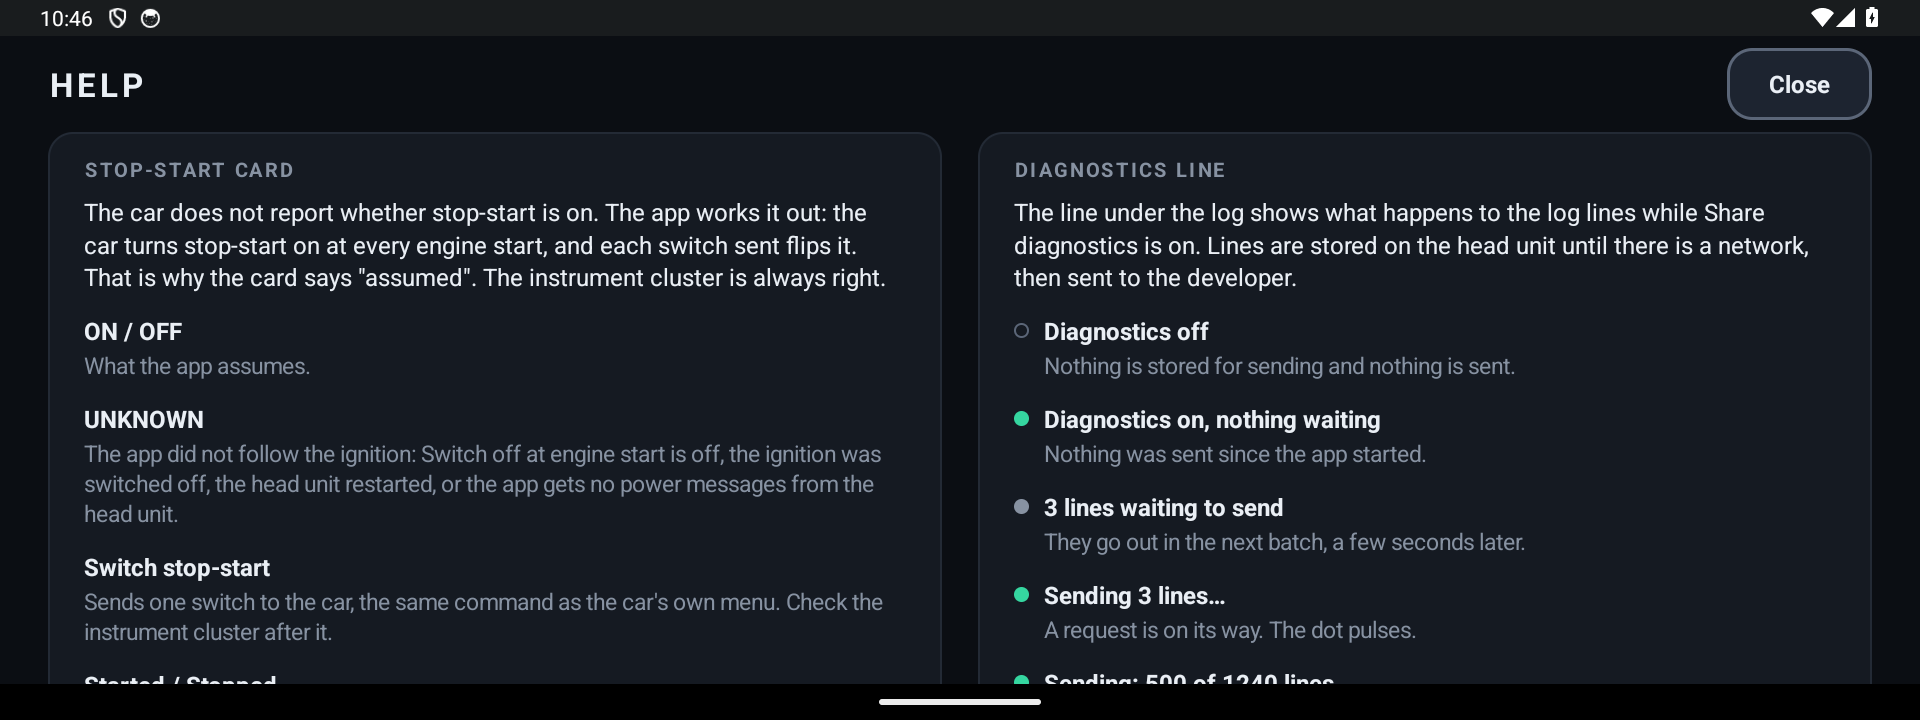
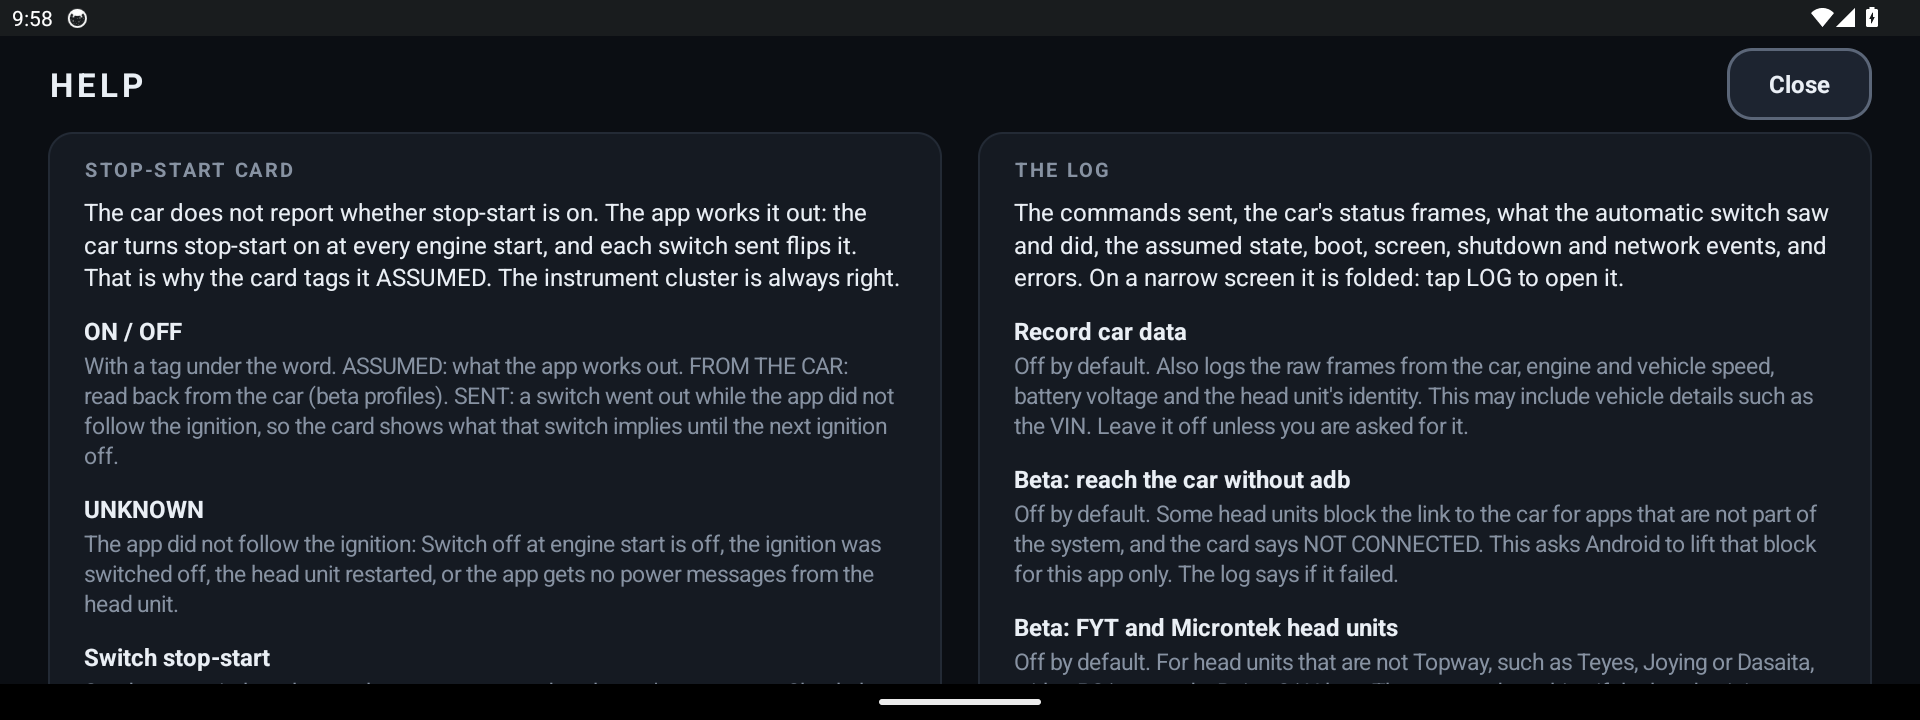
Retake screenshots for the Settings page and car setup, add them to the README

diff --git a/README.md b/README.md
@@ -26,9 +26,9 @@ It changes nothing in the car: no ECU reflash, no coding, no wiring. It sends th
 
 ![Main screen during a drive, after the automatic switch: stop-start off (assumed)](docs/main.png)
 
-![After a tap: sent, check the instrument cluster](docs/sent.png)
+![After a tap: switch sent, the card shows ON, the state that switch implies](docs/sent.png)
 
-The screenshots are from an emulator at 1920x720 with a simulated CAN box: the main screen during a drive, after **Switch off at engine start** sent its switch, and the same screen right after a tap. On a device without the Topway framework the button is grey and sends nothing:
+The screenshots are from an emulator at 1920x720 with a simulated PSA car behind a Raise CAN box: the main screen during a drive, after **Switch off at engine start** sent its switch, and the same screen right after a tap switched it back on. On a device without the Topway framework the header says **NOT CONNECTED**, the button is grey and sends nothing:
 
 ![No link to the car](docs/unreachable.png)
 
@@ -42,19 +42,25 @@ In split screen the same screen is one scrolling column:
 
 In builds that can share diagnostics, the line under the log shows when log lines are being sent:
 
-![Line under the log: sending 2 lines](docs/diagnostics.png)
+![Log card, line under the log: sending 3 lines](docs/diagnostics.png)
 
 A backlog stored while offline goes out in several requests, and the rule above the line fills as they go:
 
-![Line under the log: sending 505 of 1233 lines, bar partly filled](docs/progress.png)
+![Log card, line under the log: sending 505 of 1233 lines, bar partly filled](docs/progress.png)
 
-With no network it shows how many lines, from how many days, are stored for the next try:
+When a send fails it shows how many lines, and from how many days when more than one, are stored for the next try:
 
-![Line under the log: send failed, 2466 lines from 3 days waiting](docs/waiting.png)
+![Log card, line under the log: send failed, 30 lines waiting](docs/waiting.png)
 
 **Help** in the header opens a screen that explains each control, the diagnostics line, the log, updates and what to check when something is wrong:
 
 ![Help screen](docs/help.png)
+
+**Settings** in the header holds every switch except **Switch off at engine start**, grouped by what it is for:
+
+![Settings: the car, background start, data and beta switches](docs/settings.png)
+
+![Settings scrolled: updates and the beta program](docs/settings-updates.png)
 
 ## What it does
 
@@ -89,6 +95,8 @@ With no network it shows how many lines, from how many days, are stored for the 
 ### Car setup
 
 The app sends nothing to the car until you confirm which car it is. It asks once after it is installed or updated, the van included, and the header says **SET UP YOUR CAR** until then (tap it to open the setup): the switch button is grey and **Switch off at engine start** sends nothing. The screen says which CAN box profile the head unit is set up for, as the vendor car app `com.tw.car` names it, and offers only the choices the app would act on: **PSA with a Raise CAN box (tested on a Citroën Jumpy)** where the head unit names profile `961`, a profile the app does not know or none at all; the matching [beta profile](#what-it-does) where it names one, which also turns **Beta: other cars** on; and **My car is not listed**, which sends nothing and shows CAR NOT SUPPORTED (its button reads **Confirm: send nothing**). Beta profiles have an amber stripe and say "Untested. It may do nothing or the wrong thing." **Not now** closes the screen, sends nothing and leaves SET UP YOUR CAR in the header. The choice is stored with the profile it was confirmed for, so the app asks again when the head unit's CAN setting changes. The log says why nothing was sent (`car setup: not confirmed, nothing will be sent`) and what was confirmed (`car setup: confirmed … for profile 961`). Change it later with **Change car** in **Settings**. FYT and Microntek units report no profile here; their own checks still apply.
+
+![Car setup on a head unit set up for profile 961](docs/setup.png)
 
 There is no "keep it off" or lock option: the vendor app's "permanently closed" setting has no effect on this van, and stop-start is on again after every engine start whatever it is set to.
 
